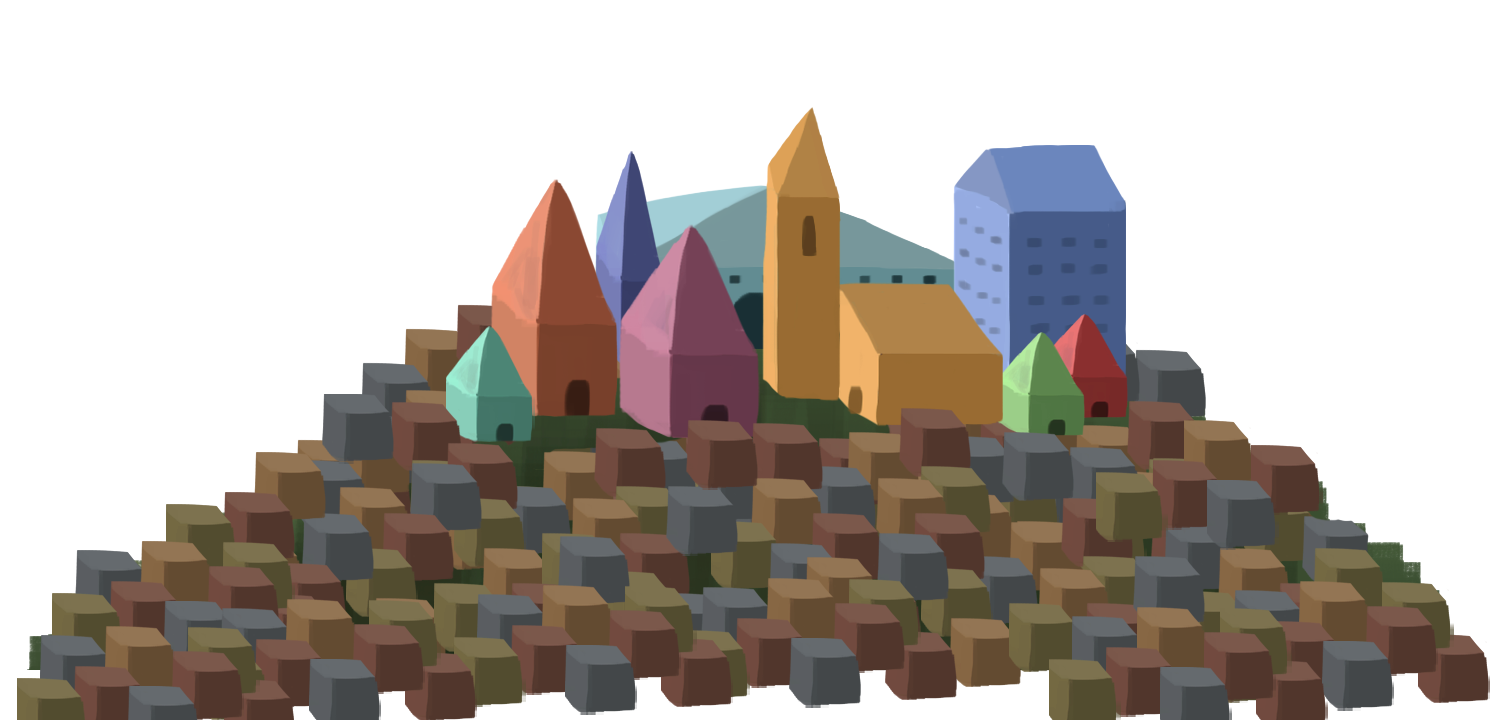
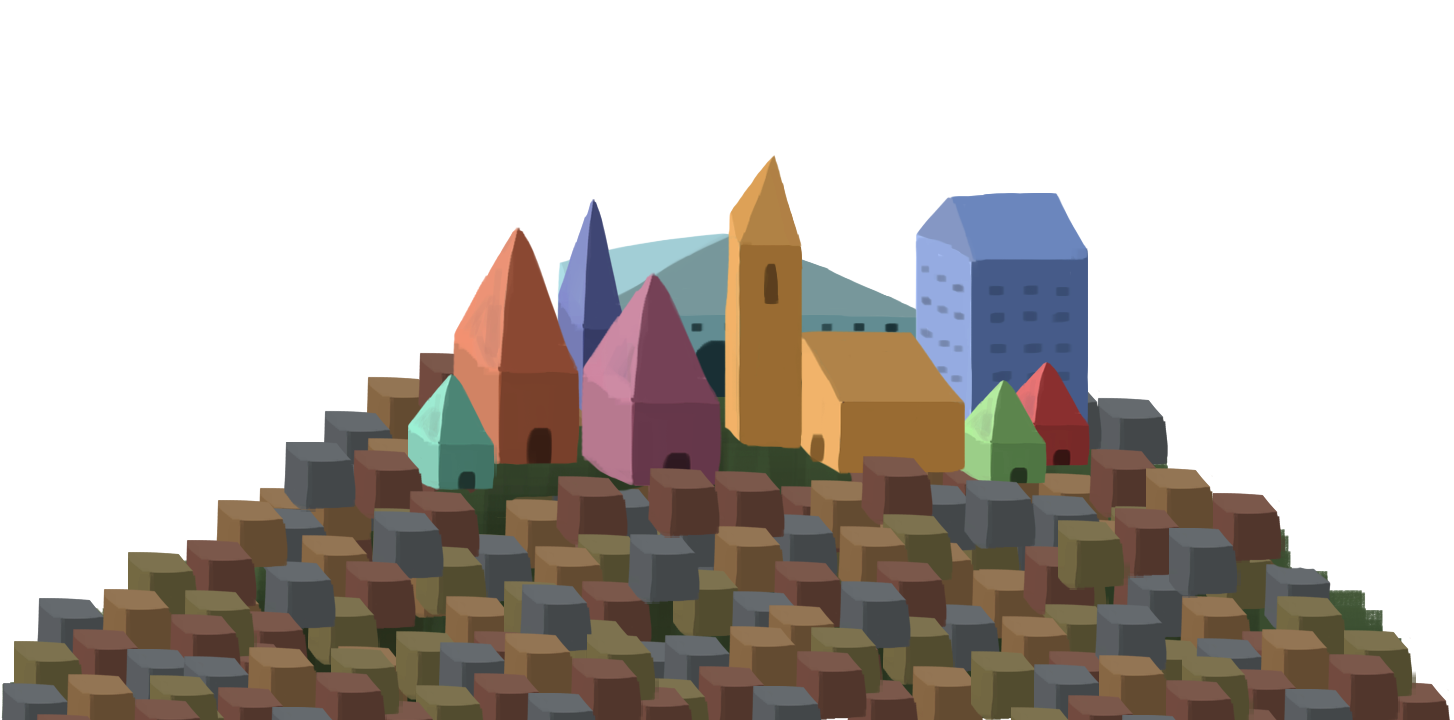
Agregue el pueblo.

diff --git a/DreamWalker/src/dreamwalker/JFrameDreamWalker.java b/DreamWalker/src/dreamwalker/JFrameDreamWalker.java
@@ -80,6 +80,7 @@ public class JFrameDreamWalker extends JFrame implements KeyListener, MouseListe
 
     
     private LinkedList<Floor> floor;
+    private Image pueblo;
 
     private Menu menu;
     private Instructions instructions;
@@ -136,11 +137,11 @@ public class JFrameDreamWalker extends JFrame implements KeyListener, MouseListe
         
         playing = true;
         pausa = false;
-        
-        
+		
         menuBG = Toolkit.getDefaultToolkit().getImage(this.getClass().getResource("Images/Background/menu.png"));
         menuFox = Toolkit.getDefaultToolkit().getImage(this.getClass().getResource("Images/Fox/FoxGif.gif"));
         pausaImg = Toolkit.getDefaultToolkit().getImage(this.getClass().getResource("Images/Botones/pause.png"));
+		pueblo = Toolkit.getDefaultToolkit().getImage(this.getClass().getResource("Images/Background/Pueblo.png"));
         Image skyI = Toolkit.getDefaultToolkit().getImage(this.getClass().getResource("Images/Background/sky.png"));
 
         menu = new Menu(menuBG, menuFox);
@@ -155,15 +156,11 @@ public class JFrameDreamWalker extends JFrame implements KeyListener, MouseListe
         FoxJump2  = new Animacion();
 
 		Animacion animSky = new Animacion();
-
-        
+		
 		animSky.sumaCuadro(skyI, 100);
-
-
-        floor = new LinkedList();
+		
+		floor = new LinkedList();
         floor.add(new Floor(0, 414  + (int) (Math.random()*280)));
-        
-    
         
         for (int x = 1; x <= 8; x++) { 
             imagenAnimaciones = Toolkit.getDefaultToolkit().getImage(this.getClass().getResource("Images/Fox/FoxRun" + x + ".gif"));
@@ -277,29 +274,27 @@ public class JFrameDreamWalker extends JFrame implements KeyListener, MouseListe
      * </code> por la parte inferior.
      */
     public void checaColision() {
+		fox.setAterriza(false);
+		for (Floor flo : floor) {
 
-            fox.setAterriza(false);
-            for (Floor flo : floor) {
- 
-                if(flo.intersecta(fox)&&fox.getMoveLeft()&& fox.getX()>=flo.getX()+flo.getAncho()-10 ){
-                    fox.setX(flo.getX()+ flo.getAncho()+5);
-                 
-                }//flo.getAncho()-fox.getAncho()/2 = flo.getAncho()!!!!!
-                if(fox.within(flo.getX()-fox.getAncho()/2, flo.getAncho()-fox.getAncho(), fox.getX(), fox.getAncho()/2)&& flo.intersecta(fox)){
-  
-                    fox.setAterriza(true);
-                    fox.landed();
-                    fox.setY(flo.getY()-fox.getAlto());
-                    
-                }
-                
-                if( flo.intersecta(fox) && fox.getMoveRight()){
-                    fox.setX(flo.getX()- fox.getAncho());
-                 
-                }
-           
-            }
+			if(flo.intersecta(fox)&&fox.getMoveLeft()&& fox.getX()>=flo.getX()+flo.getAncho()-10 ){
+				fox.setX(flo.getX()+ flo.getAncho()+5);
 
+			}//flo.getAncho()-fox.getAncho()/2 = flo.getAncho()!!!!!
+			if(fox.within(flo.getX()-fox.getAncho()/2, flo.getAncho()-fox.getAncho(), fox.getX(), fox.getAncho()/2)&& flo.intersecta(fox)){
+
+				fox.setAterriza(true);
+				fox.landed();
+				fox.setY(flo.getY()-fox.getAlto());
+
+			}
+
+			if( flo.intersecta(fox) && fox.getMoveRight()){
+				fox.setX(flo.getX()- fox.getAncho());
+
+			}
+
+		}
 	}
 
     /**
@@ -317,8 +312,6 @@ public class JFrameDreamWalker extends JFrame implements KeyListener, MouseListe
 		fox.setX(fox.getX()-3);
 		fox.cae(); 
 		fox.setY(fox.getY());
-               
-                  
 		
 		if (fox.getMoveLeft()) {
 			fox.setX(fox.getX() - 6);
@@ -422,24 +415,23 @@ public class JFrameDreamWalker extends JFrame implements KeyListener, MouseListe
         g.setFont(new Font("Serif", Font.BOLD, 34));
         g.drawString("" + score, 100, 80);
         if (status == STATUS.GAME ) {
-
-			if (!pausa) { 
-                                // si no esta pausado el juego, pinta todo                    
-                                for (Floor flo : floor) 
-                                     flo.render(g, this);
-                                  
-                                if (fox.getMoveRight() || fox.getMoveLeft()) {
-                                    
-                                    g.drawImage(fox.getImagenA(), fox.getX(), fox.getY(), this);
-                                } else {
-                                   
-                                    if(fox.getBrincaDoble()){
-                                        g.drawImage(fox.getImagenA(), fox.getX(), fox.getY(), this);
-                                    }
-                                    else{
-                                        g.drawImage(fox.getImagenS(), fox.getX(), fox.getY(), this);
-                                    }   
-                                    
+			g.drawImage(pueblo, sky.getPuebloX(), 0, this);
+			if (sky.getPuebloX() < 0) {
+				g.drawImage(pueblo, sky.getPuebloX()+1500, 0, this);
+			}
+			if (!pausa) {
+//				si no esta pausado el juego, pinta todo
+				for (Floor flo : floor) {
+					flo.render(g, this);
+				}
+				if (fox.getMoveRight() || fox.getMoveLeft()) {
+					g.drawImage(fox.getImagenA(), fox.getX(), fox.getY(), this);
+				} else {
+					if(fox.getBrincaDoble()) {
+						g.drawImage(fox.getImagenA(), fox.getX(), fox.getY(), this);
+					} else {
+						g.drawImage(fox.getImagenS(), fox.getX(), fox.getY(), this);
+					}
 				}
 			} else {         
 				g.drawImage(pausaImg, getWidth() / 2 - new ImageIcon(pausaImg).getIconWidth() / 2, getHeight() / 2 - new ImageIcon(pausaImg).getIconHeight() / 2, this);
@@ -471,7 +463,6 @@ public class JFrameDreamWalker extends JFrame implements KeyListener, MouseListe
                 fox.jump();
                 if(fox.getBrinca()||!fox.getBrincaDoble()||fox.getJumps()<2){
                     fox.jumpDouble();
-                    
                 }
             } else if (e.getKeyCode() == KeyEvent.VK_P) {
                 pausa = !pausa;

diff --git a/DreamWalker/src/dreamwalker/Floor.java b/DreamWalker/src/dreamwalker/Floor.java
@@ -16,15 +16,12 @@ import java.awt.Toolkit;
  * @author daniel rodriguez
  * @author Emilio Flores
  */
-public class Floor  {
-
+public class Floor {
     private boolean movement;
     private  int posX;
     private  int posY;
     public static double nivel = 1.0;
     private boolean paso;
-
-	
 	
     private Image floors[];
     private Image bushes[]; 
@@ -84,7 +81,6 @@ public class Floor  {
         flower4Index = (int) (Math.random()*3);
         flower5Index = (int) (Math.random()*3);
         
-        
         randPosTree = (int) (Math.random()*464);
         randPosBush = (int) (Math.random()*328);
         randPosWeed = (int) (Math.random()*217);
@@ -92,7 +88,6 @@ public class Floor  {
         
         posX = xPos;
         posY = yPos;
-        
         
         paso = false;
         for (int x = 1; x <= 3; x ++ ) {
@@ -120,7 +115,6 @@ public class Floor  {
      * Método que resetea la posicion del piso si este ya se paso
      */
     public void addFloor () {
-       
         posX = 1156;
         posY = 414  + (int) (Math.random()*280);
        
@@ -145,36 +139,30 @@ public class Floor  {
         randPosBush = (int) (Math.random()*328);
         randPosWeed = (int) (Math.random()*217);
         randPosFlower = (int) (Math.random()*1000);
-        
-        
-    }
+	}
     
     /**
      * Método que actualiza la posX del objeto 
      */
-    public void actualizaPos () {   
-        posX -= 3;
-
-    }
+	public void actualizaPos () {
+		posX -= 3;
+	}
+	
     /**
 	 * Metodo de acceso que regresa el alto de la base
 	 * @return alto
 	 */
-    public int getAlto(){
-        
-        return alto;
-        
-    }
+	public int getAlto() {
+		return alto;
+	}
+	
     /**
 	 * Metodo de acceso que regresa el ancho de la base
 	 * @return alto
 	 */
-    
-    public int getAncho(){
-        
-        return ancho;
-        
-    }
+	public int getAncho() {
+		return ancho;
+	}
     
 	/**
      * Dibuja el suelo
@@ -200,7 +188,6 @@ public class Floor  {
         g.drawImage(flowers[flower5Index], posX+randPosFlower+860, posY-flowers[flower5Index].getHeight(juego), juego);
     }
 
-
     /**
      * Método que activa la direccion donde se movio el objeto
      *
@@ -209,16 +196,16 @@ public class Floor  {
     public void setMovement(boolean b) {
         movement = b;
     }
+	
     /**
 	 * Metodo de acceso que regresa la posicion en x del objeto 
 	 * @return posX es la <code>posicion en x</code> del objeto.
 	 */
-        
-	public int getX() {
+    public int getX() {
 		return posX;
 	}
-        
-        /**
+	
+	/**
 	 * Metodo de acceso que regresa la posicion en y del objeto 
 	 * @return posY es la <code>posicion en y</code> del objeto.
 	 */
@@ -272,5 +259,4 @@ public class Floor  {
 	public boolean intersecta(Base obj) {
 		return getPerimetro().intersects(obj.getPerimetro());
 	}
-
 }

diff --git a/DreamWalker/src/dreamwalker/Sky.java b/DreamWalker/src/dreamwalker/Sky.java
@@ -10,7 +10,7 @@ package dreamwalker;
  * @author manolo
  */
 public class Sky extends Base {
-	private double pY;
+	private double skyY, puebloX;
 	
 	/**
 	 * Metodo constructor default.
@@ -26,17 +26,24 @@ public class Sky extends Base {
 	 */
 	public Sky(int posY, Animacion a) {
 		super(0, 0, a);
-		pY = posY;
+		skyY = posY;
+		puebloX = 1152;
 	}
 	
 	/**
 	 * Metodo usado para avanzar la hora del dia.
 	 */
 	public void move() {
-		if (Math.floor(pY) == 0) {
-			pY = -6480+720;
+		if (Math.floor(skyY) == 0) {
+			skyY = -6480+720;
 		} else {
-			pY += 0.32;
+			skyY += 0.32;
+		}
+		
+		if (Math.floor(puebloX) == -1500) {
+			puebloX = 0;
+		} else {
+			puebloX -= 0.2;
 		}
 	}
 	
@@ -46,6 +53,14 @@ public class Sky extends Base {
 	 */
 	@Override
 	public int getY() {
-		return (int) Math.floor(pY);
+		return (int) Math.floor(skyY);
+	}
+	
+	/**
+	 * Metodo de acceso que regresa la posicion en x del pueblo
+	 * @return posY es la <code>posicion en x</code> del pueblo.
+	 */
+	public int getPuebloX() {
+		return (int) Math.floor(puebloX);
 	}
 }
